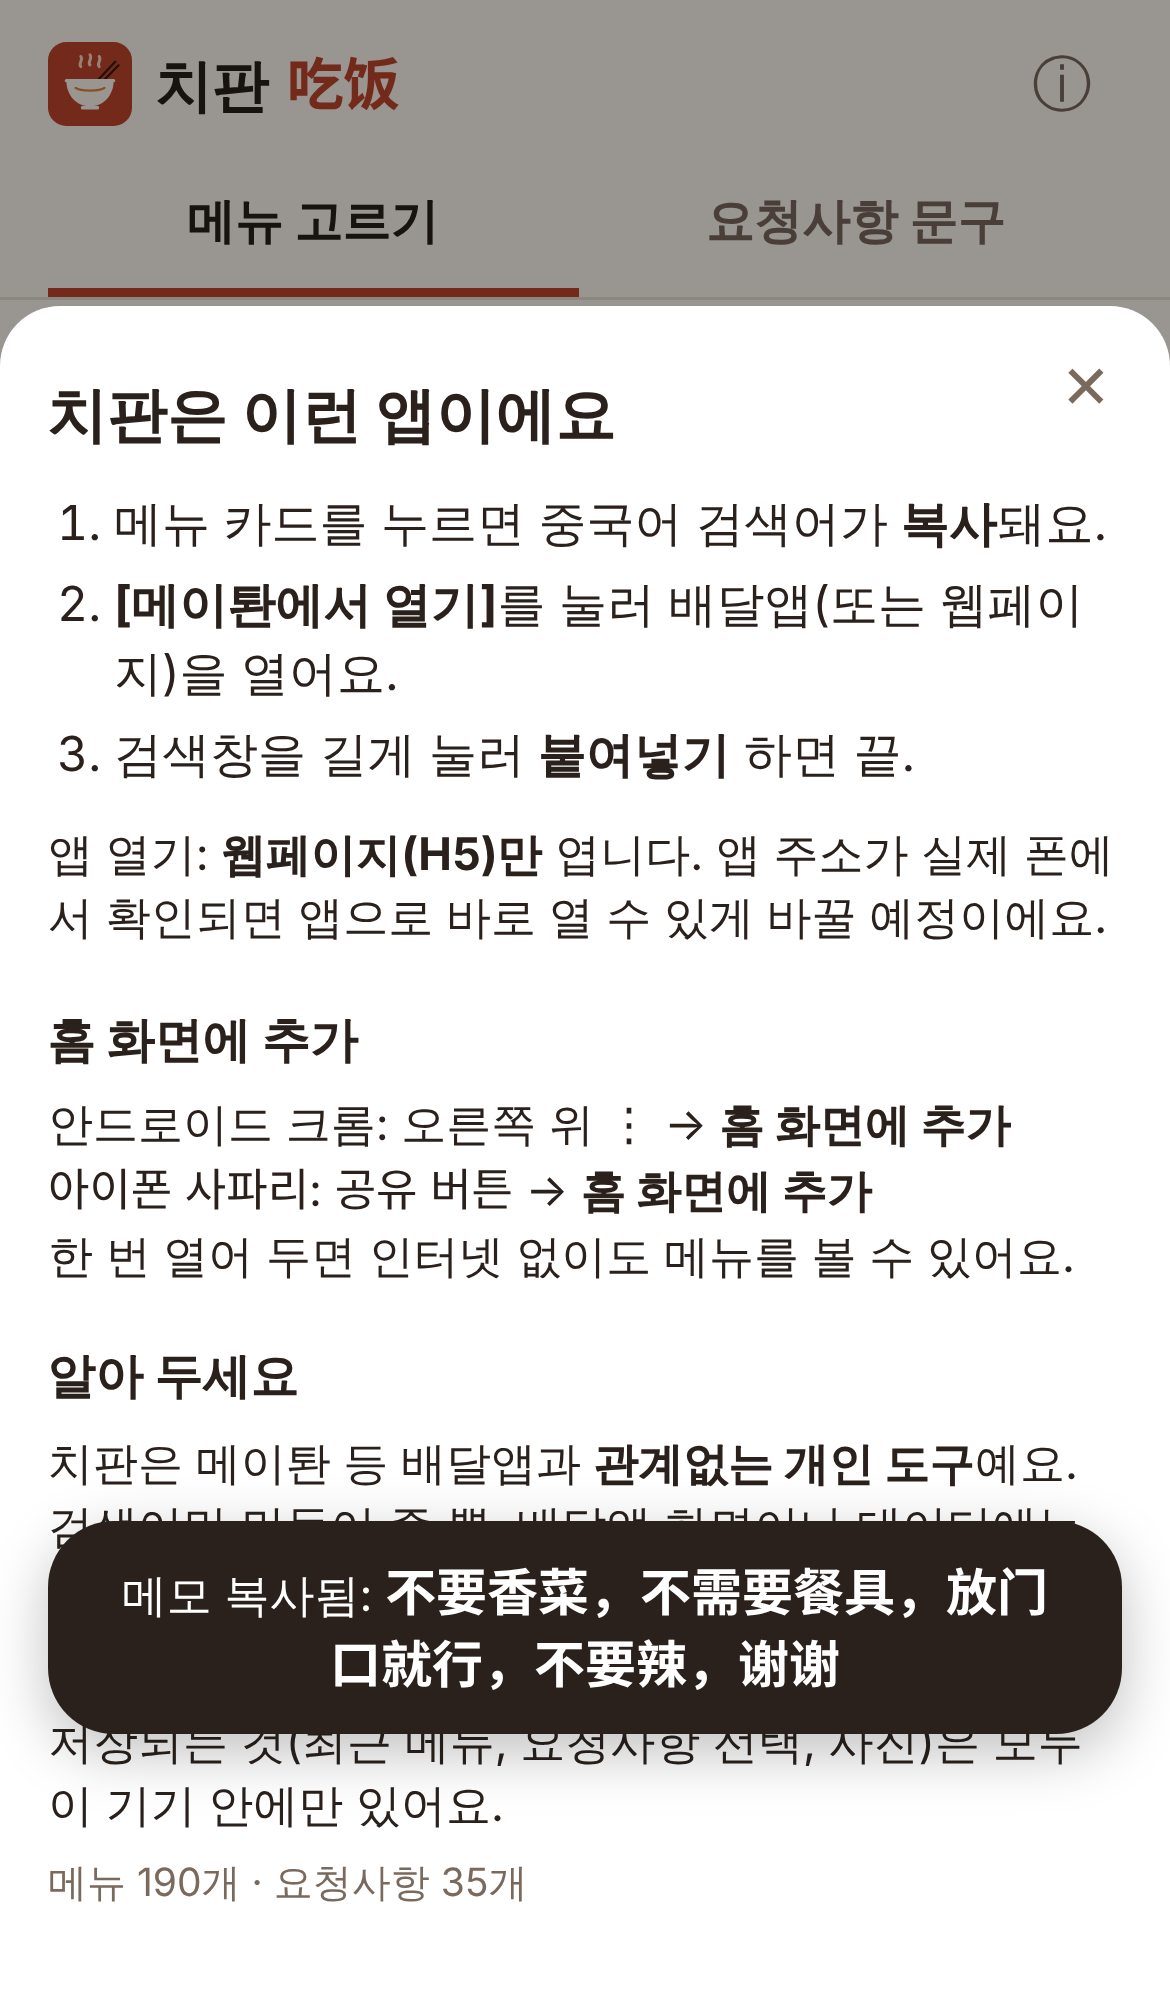
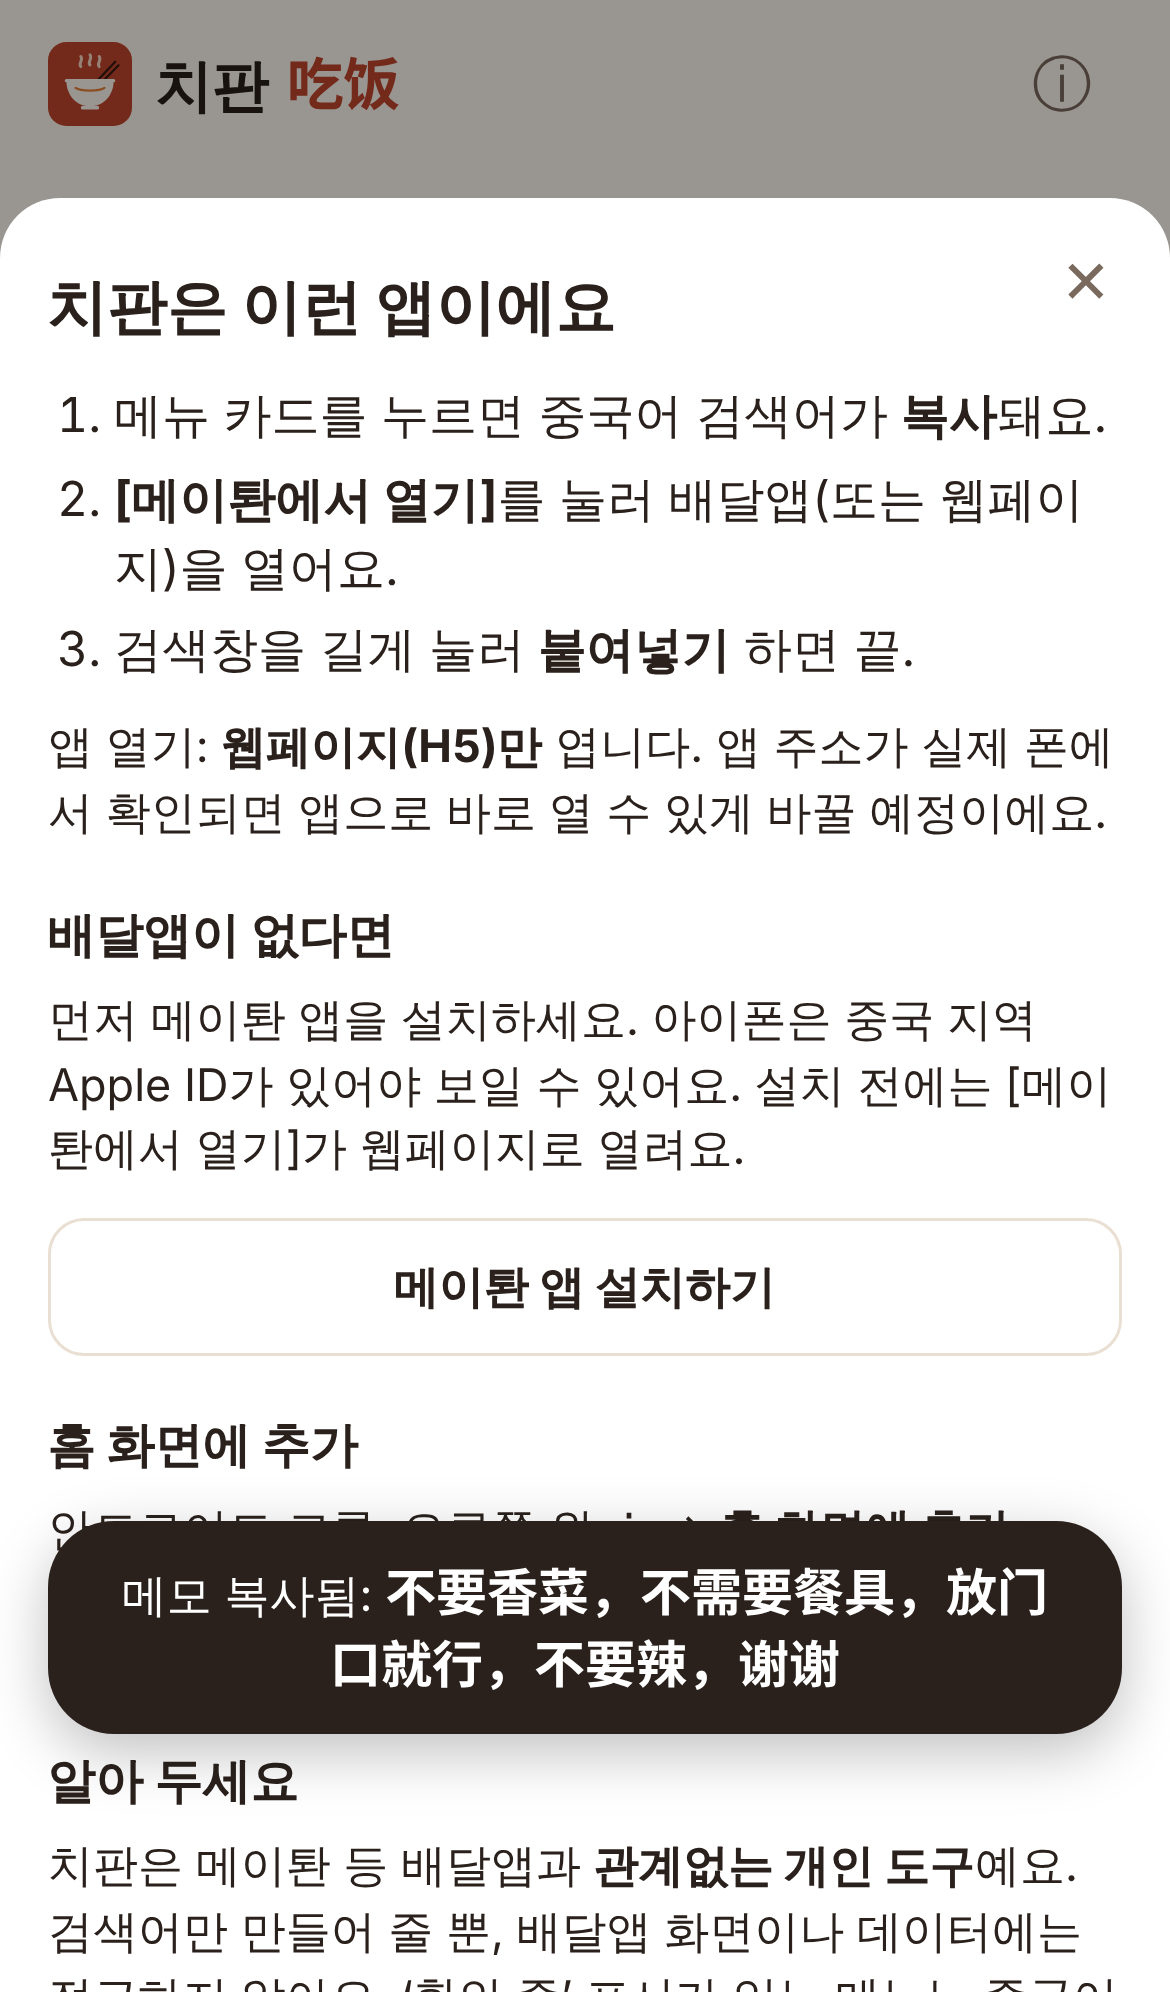
배달앱 설치 안내 추가: 스토어 열기 + 美团 복사
- 첫 화면 설치 카드([앱 설치하기] / [이미 있어요]), 정보 시트에도 설치 버튼
- 안드로이드 market:// → 안 열리면 Play 웹, iOS App Store (링크는 config.js, 미확인 표시)
- 테스트: 설치 흐름, 클립보드, 카드 숨김 유지

diff --git a/js/open.js b/js/open.js
@@ -10,10 +10,16 @@
     inApp: /MicroMessenger|KAKAOTALK|NAVER\(inapp|Line\/|FBAN|FBAV|Instagram|DingTalk|\bQQ\/|Weibo/i.test(ua)
   };
 
+  // 테스트에서 이동을 가로챌 수 있게 한 곳으로 모은다
+  function go(url) {
+    if (window.__chifanGo) return window.__chifanGo(url);
+    location.href = url;
+  }
+
   function openH5(h5) {
     var w = window.open(h5, '_blank');
     if (w) { try { w.opener = null; } catch (e) {} }
-    else location.href = h5;
+    else go(h5);
   }
 
   function androidIntent(a, h5) {
@@ -21,7 +27,8 @@
       ';S.browser_fallback_url=' + encodeURIComponent(h5) + ';end';
   }
 
-  function iosTry(o, h5) {
+  // url로 이동해 보고, fallbackMs 안에 페이지가 숨겨지지 않으면(앱이 안 열리면) fallback으로
+  function tryThen(url, fallback, ms) {
     var left = false;
     function onHide() { if (document.hidden) left = true; }
     document.addEventListener('visibilitychange', onHide);
@@ -29,20 +36,30 @@
     setTimeout(function () {
       document.removeEventListener('visibilitychange', onHide);
       window.removeEventListener('pagehide', onHide);
-      if (!left && !document.hidden) location.href = h5;
-    }, o.fallbackMs || 1600);
-    location.href = o.url;
+      if (!left && !document.hidden) go(fallback);
+    }, ms || 1600);
+    go(url);
   }
 
   // 어떤 방식으로 열었는지 돌려준다: 'h5' | 'android-intent' | 'ios-scheme'
   function openDelivery() {
     var cfg = window.CHIFAN_CONFIG, h5 = cfg.h5Url, app = cfg.appOpen || {};
     if (!app.enabled || env.inApp) { openH5(h5); return 'h5'; }
-    if (env.android && app.android && app.android.package) { location.href = androidIntent(app.android, h5); return 'android-intent'; }
-    if (env.ios && app.ios && app.ios.url) { iosTry(app.ios, h5); return 'ios-scheme'; }
+    if (env.android && app.android && app.android.package) { go(androidIntent(app.android, h5)); return 'android-intent'; }
+    if (env.ios && app.ios && app.ios.url) { tryThen(app.ios.url, h5, app.ios.fallbackMs); return 'ios-scheme'; }
     openH5(h5);
     return 'h5';
   }
 
-  window.Opener = { env: env, openDelivery: openDelivery, androidIntent: androidIntent };
+  // 배달앱 설치: 안드로이드는 스토어 앱(market://) → 안 되면 Play 웹, iOS는 App Store
+  function openInstall() {
+    var ins = window.CHIFAN_CONFIG.install || {}, a = ins.android || {}, i = ins.ios || {};
+    if (env.ios && i.url) { go(i.url); return 'ios-store'; }
+    if (env.android && a.market && !env.inApp) { tryThen(a.market, a.web, a.fallbackMs); return 'android-market'; }
+    var w = a.web || i.url;
+    if (w) openH5(w);
+    return 'web-store';
+  }
+
+  window.Opener = { env: env, openDelivery: openDelivery, openInstall: openInstall, androidIntent: androidIntent };
 })();

diff --git a/js/app.js b/js/app.js
@@ -89,6 +89,15 @@
     toast(msg, 3200);
   }
 
+  function openInstall() {
+    var term = (window.CHIFAN_CONFIG.install || {}).searchTerm || '美团';
+    copyText(term).then(function (ok) {
+      Opener.openInstall();
+      toast(ok ? '복사됨: <b lang="zh-CN">' + esc(term) + '</b> · 스토어에서 바로 안 보이면 검색창에 붙여넣기'
+               : '스토어에서 <b lang="zh-CN">' + esc(term) + '</b>를 검색하세요', 4000);
+    });
+  }
+
   // ---------- 검색 ----------
   function score(f, q, qpy) {
     var best = -1;
@@ -250,6 +259,10 @@
         '<li>검색창을 길게 눌러 <b>붙여넣기</b> 하면 끝.</li>' +
       '</ol>' +
       '<p>' + openState + '</p>' +
+      '<h3>배달앱이 없다면</h3>' +
+      '<p>먼저 메이퇀 앱을 설치하세요. 아이폰은 중국 지역 Apple ID가 있어야 보일 수 있어요. ' +
+      '설치 전에는 [메이퇀에서 열기]가 웹페이지로 열려요.</p>' +
+      '<div class="row"><button class="btn" data-act="installApp">메이퇀 앱 설치하기</button></div>' +
       '<h3>홈 화면에 추가</h3>' +
       '<p>안드로이드 크롬: 오른쪽 위 ⋮ → <b>홈 화면에 추가</b><br>아이폰 사파리: 공유 버튼 → <b>홈 화면에 추가</b><br>한 번 열어 두면 인터넷 없이도 메뉴를 볼 수 있어요.</p>' +
       (S.installEvt ? '<div class="row"><button class="btn primary" data-act="install">지금 설치하기</button></div>' : '') +
@@ -367,6 +380,8 @@
     });
 
     $('#openBtn').addEventListener('click', openApp);
+    $('#installBtn').addEventListener('click', openInstall);
+    $('#setupDone').addEventListener('click', function () { LS.set('setupDone', true); $('#setupCard').hidden = true; });
     $('#aboutBtn').addEventListener('click', showAbout);
     $('#sheetClose').addEventListener('click', closeSheet);
     $('#sheetBack').addEventListener('click', closeSheet);
@@ -382,6 +397,8 @@
       else if (act === 'pick') pickPhoto(false);
       else if (act === 'rmphoto' && f) {
         Photos.remove(f.id).then(function () { delete S.photos[f.id]; showFood(f); renderGrid(); toast('사진을 지웠어요'); });
+      } else if (act === 'installApp') {
+        openInstall();
       } else if (act === 'install' && S.installEvt) {
         S.installEvt.prompt(); S.installEvt = null; closeSheet();
       }
@@ -431,6 +448,7 @@
   function init() {
     bind();
     inAppBanner();
+    $('#setupCard').hidden = !!LS.get('setupDone', false);
     Promise.all([loadJSON('data/categories.json'), loadJSON('data/foods.json'), loadJSON('data/requests.json')])
       .then(function (r) {
         S.cats = r[0]; S.foods = r[1]; S.req = r[2];

diff --git a/tests/screens.js b/tests/screens.js
@@ -27,6 +27,8 @@ async function run(browser, name, dev) {
   await ctx.addInitScript(() => {
     window.__opened = [];
     window.open = (u) => { window.__opened.push(u); return {}; };
+    window.__went = [];
+    window.__chifanGo = (u) => { window.__went.push(u); };
   });
   const page = await ctx.newPage();
   const errors = [];
@@ -37,6 +39,22 @@ async function run(browser, name, dev) {
   await page.goto(BASE);
   await page.waitForSelector('.card');
   await shot('01-home');
+
+  // 0) 첫 실행: 배달앱 설치 안내 → 스토어 열기 + '美团' 복사, [이미 있어요]로 숨김
+  assert.ok(await page.isVisible('#setupCard'));
+  await page.click('#installBtn');
+  await page.waitForSelector('.toast.is-on');
+  assert.strictEqual(await page.evaluate(() => navigator.clipboard.readText()), '美团');
+  if (name === 'pixel7') {
+    assert.deepStrictEqual(await page.evaluate(() => window.__went), ['market://details?id=com.sankuai.meituan']);
+    await page.waitForTimeout(1800); // 스토어 앱이 안 열리면 Play 웹으로
+    assert.deepStrictEqual(await page.evaluate(() => window.__went.slice(1)), ['https://play.google.com/store/apps/details?id=com.sankuai.meituan']);
+  } else {
+    assert.deepStrictEqual(await page.evaluate(() => window.__went), ['https://apps.apple.com/cn/app/id423084029']);
+  }
+  await shot('00-install');
+  await page.click('#setupDone');
+  assert.ok(!(await page.isVisible('#setupCard')));
 
   // 1) 카드 탭 → 자동 복사 + 토스트
   await page.click('[data-cat="soup"]');
@@ -83,6 +101,7 @@ async function run(browser, name, dev) {
   await shot('05-photo');
   await page.reload();
   await page.waitForSelector('.card[data-id="dandanmian"] .art.has-photo'); // 새로고침 뒤에도 남아 있음
+  assert.ok(!(await page.isVisible('#setupCard')), '설치 안내는 [이미 있어요] 뒤 다시 안 나옴');
 
   // 5) 요청사항 문구
   await page.click('.tab[data-view="memo"]');
@@ -122,6 +141,7 @@ async function inApp(browser) {
   await page.goto(BASE);
   await page.waitForSelector('.card');
   assert.ok(await page.isVisible('#inappBanner'));
+  await page.click('#setupDone');
   await page.screenshot({ path: path.join(out, 'pixel7-08-inapp.png') });
   await ctx.close();
   console.log('✓ 인앱 브라우저 안내');

diff --git a/tests/check-data.js b/tests/check-data.js
@@ -27,8 +27,8 @@ for (const r of req.items) {
 if (foods.length < 100 || foods.length > 200) errs.push(`음식 개수 ${foods.length} (100~200 목표)`);
 for (const c of cats) if (!foods.some(f => f.cat === c.id)) errs.push(`빈 카테고리 ${c.id}`);
 
-// 외부 주소: 배달 H5 주소(config.js) 말고는 없어야 함 (중국에서 막히는 CDN·폰트 방지)
-const allow = [/^https:\/\/h5\.waimai\.meituan\.com\//, /^http:\/\/www\.w3\.org\/2000\/svg/];
+// 외부 주소: 배달 H5·스토어 주소(config.js) 말고는 없어야 함 (중국에서 막히는 CDN·폰트 방지)
+const allow = [/^https:\/\/h5\.waimai\.meituan\.com\//, /^https:\/\/play\.google\.com\/store\/apps\/details/, /^https:\/\/apps\.apple\.com\/cn\/app\//, /^http:\/\/www\.w3\.org\/2000\/svg/];
 const walk = d => fs.readdirSync(d, { withFileTypes: true }).flatMap(e =>
   e.name.startsWith('.') || ['tests', 'node_modules', 'screenshots'].includes(e.name) ? [] :
   e.isDirectory() ? walk(path.join(d, e.name)) : [path.join(d, e.name)]);

diff --git a/js/config.js b/js/config.js
@@ -20,5 +20,18 @@ window.CHIFAN_CONFIG = {
       url: 'imeituan://',        // 미확인
       fallbackMs: 1600           // 이 시간 안에 페이지가 숨겨지지 않으면 H5로
     }
+  },
+
+  // 배달앱 설치 링크. 스토어 링크가 안 맞으면 사용자가 searchTerm을 스토어 검색창에 붙여넣는다.
+  install: {
+    searchTerm: '美团',          // 설치 버튼을 누르면 함께 복사됨
+    android: {
+      market: 'market://details?id=com.sankuai.meituan',  // 패키지명 미확인. 중국 폰 제조사 스토어도 market://을 받음
+      web: 'https://play.google.com/store/apps/details?id=com.sankuai.meituan', // market://이 안 열릴 때
+      fallbackMs: 1600
+    },
+    ios: {
+      url: 'https://apps.apple.com/cn/app/id423084029'    // 앱 ID 미확인. 중국 지역 Apple ID가 필요할 수 있음
+    }
   }
 };

diff --git a/index.html b/index.html
@@ -35,6 +35,16 @@
 
 <main>
   <section id="view-menu" class="view">
+    <div class="setup" id="setupCard" hidden>
+      <div class="setup-text">
+        <b>처음이라면: 메이퇀 앱부터 설치하세요</b>
+        <span>버튼을 누르면 스토어가 열리고 <span lang="zh-CN">美团</span>(앱 이름)이 복사돼요. 바로 안 보이면 스토어 검색창에 붙여넣기.</span>
+      </div>
+      <div class="setup-actions">
+        <button class="btn primary" id="installBtn">앱 설치하기</button>
+        <button class="btn" id="setupDone">이미 있어요</button>
+      </div>
+    </div>
     <div class="searchbar">
       <input id="q" type="search" inputmode="search" autocomplete="off"
              placeholder="한국어로 검색 (예: 마라탕, ㅉㅈㅁ)" aria-label="메뉴 검색">

diff --git a/css/style.css b/css/style.css
@@ -240,3 +240,13 @@ body.no-dock .toast { bottom: calc(env(safe-area-inset-bottom) + 24px); }
 @media (prefers-reduced-motion: reduce) {
   * { transition: none !important; }
 }
+
+/* 첫 실행: 배달앱 설치 안내 */
+.setup {
+  margin-top: 14px; padding: 14px; border-radius: 16px; background: var(--surface); box-shadow: var(--shadow);
+  border-left: 5px solid var(--accent);
+}
+.setup-text b { display: block; font-size: 16px; }
+.setup-text span { font-size: 14px; color: var(--muted); }
+.setup-actions { display: flex; gap: 8px; margin-top: 10px; }
+.setup-actions .btn.primary { flex: 1; }

diff --git a/sw.js b/sw.js
@@ -1,5 +1,5 @@
 // 오프라인용 서비스워커. 파일을 바꾸면 VERSION을 올릴 것.
-var VERSION = 'chifan-v1';
+var VERSION = 'chifan-v2';
 var CORE = [
   './',
   'index.html',

diff --git a/README.md b/README.md
@@ -21,6 +21,7 @@
 
 | 기능 | 내용 |
 |---|---|
+| 앱 설치 안내 | 첫 화면 위 카드: **[앱 설치하기]** → 스토어 열기 + `美团` 복사(스토어 검색창에 붙여넣기용). **[이미 있어요]**로 숨김. 정보(ⓘ)에도 설치 버튼 |
 | 메뉴 고르기 | 카테고리 10개 탭 → 카드 그리드. 카드에 중국어(크게)·병음·한국어 이름·한 줄 설명·맵기 |
 | 검색어 복사 | 카드를 누르면 중국어 검색어 자동 복사 + “복사됨: 麻辣烫” 토스트. 하단 바에 마지막 검색어 표시 |
 | 앱 열기 | 하단 **[메이퇀에서 열기]** 버튼. 사용자가 누를 때만 연다. 지금은 **H5 페이지만** 연다(아래 참고) |
@@ -62,6 +63,10 @@
 | 안드로이드 패키지명 | `com.sankuai.meituan` | **미확인 (추정)** | — |
 | 안드로이드 intent scheme / path | `imeituan` / (빈칸) | **미확인 (추정)** | — |
 | iOS URL 스킴 | `imeituan://` | **미확인 (추정)** | — |
+| 설치: 안드로이드 스토어 | `market://details?id=com.sankuai.meituan` → 1.6초 안에 안 열리면 Google Play 웹 | **미확인** (패키지명 추정) | — |
+| 설치: iOS App Store | `https://apps.apple.com/cn/app/id423084029` | **미확인** (앱 ID 추정, 중국 지역 Apple ID 필요할 수 있음) | — |
+
+설치 링크가 틀려도 `美团`이 복사돼 있으니 스토어 검색창에 붙여넣으면 된다. Google Play는 중국 안에서 안 열리고, 중국 폰(샤오미·화웨이 등)은 `market://`을 자기 스토어로 연다.
 
 실제 폰에서 확인되면 `js/config.js` 값을 고치고 `enabled: true`로 바꾼 뒤, 이 표에 날짜와 기기를 적는다.
 (메이퇀 페이지나 앱 코드를 분석해서 알아내지 않는다. 폰에서 직접 확인한다.)
@@ -154,7 +159,7 @@ node tests/make-icons.js             # icons/*.svg → PNG
 
 ## 다음 할 일
 
-- [ ] 실제 폰(안드로이드 / 아이폰)에서 메이퇀 앱 패키지명·스킴 확인 → `js/config.js` 반영, 위 표에 날짜 기록
+- [ ] 실제 폰(안드로이드 / 아이폰)에서 메이퇀 앱 패키지명·스킴·스토어 링크 확인 → `js/config.js` 반영, 위 표에 날짜 기록
 - [ ] 중국 현지에서 github.io 접속 속도·오프라인 동작 확인
 - [ ] ‘검증 필요’ 11개 항목을 실제 배달앱 검색 결과로 확인·수정, 나머지 표기도 샘플 검증
 - [ ] 직접 찍은 사진을 `img/<id>.jpg`로 추가
